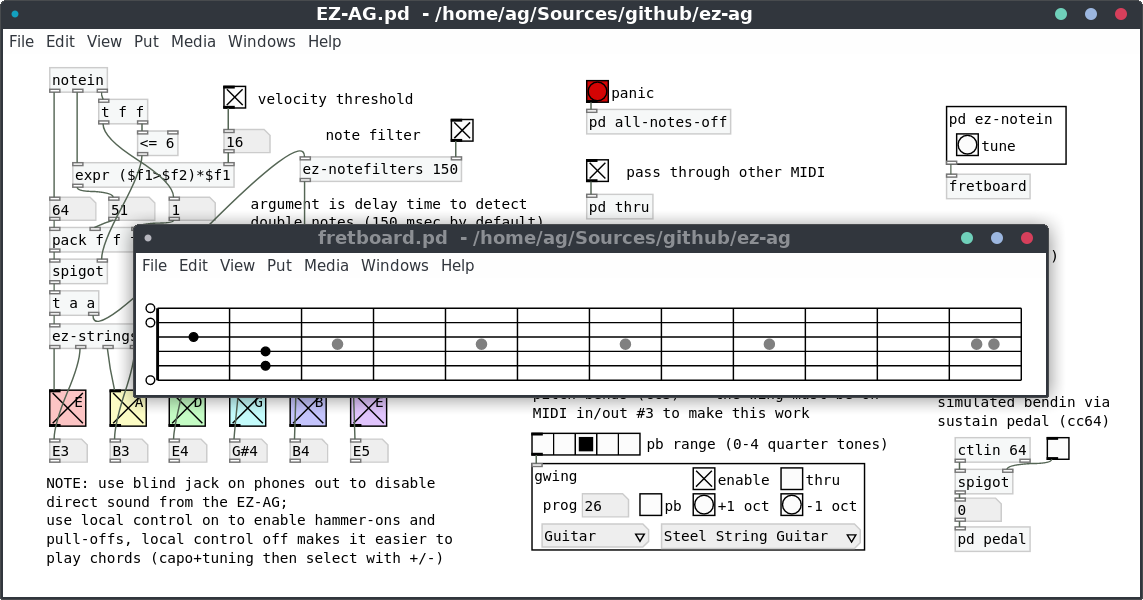
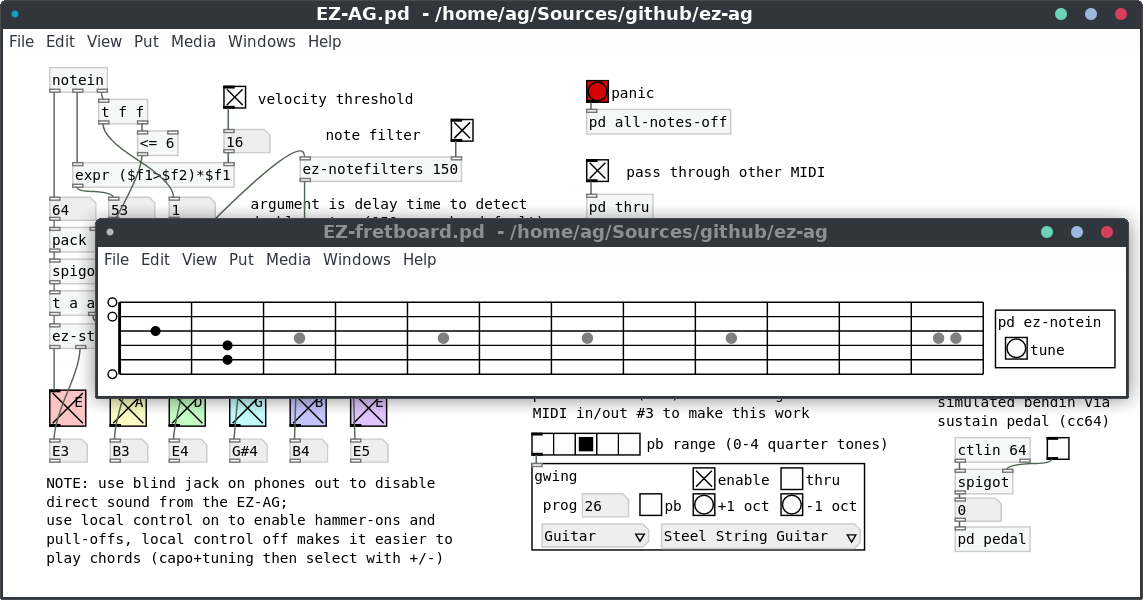
Update documentation

Changed region(s): [[0.0612, 0.33, 1.0, 0.69], [0.8268, 0.15, 0.9186, 0.33]]

diff --git a/README.md b/README.md
@@ -151,23 +151,7 @@ With those preparations all done and the EZ-AG turned on, just load the patch
 and start playing. You should see the strings and notes being played in the
 GUI, and hear the output from the patch through your MIDI synthesizer.
 
-Clicking on the fretboard subpatch in the right upper corner of the patch
-opens a graphical display of the 12 frets of the EZ-AG showing the notes that
-are currently playing in the style of a horizontal fretboard diagram. As
-usual, open and damped strings are indicated with "o" and "x" symbols to the
-left of the "nut" and finger positions on the fretboard using bullet points.
-
-Note that the fretboard display has no way of knowing the actual tuning of the
-EZ-AG, so it assumes a standard guitar tuning (E3-A3-D4-G4-B4-E5) by default.
-If you have configured the EZ-AG to use a different tuning (such as, e.g.,
-D-drop or 1 octave up or down) then some notes may fall below or above the
-displayed range and will be shown as grey "shadow" notes on the "nut" or the
-"bridge" in the fretboard diagram, respectively. In this case you can
-recalibrate the display so that it matches the EZ-AG's tuning. To these ends,
-pluck each open string (at least) once and then push the "tune" button above
-the fretboard subpatch. The display will then be adjusted accordingly.
-
-There are various other settings in the patch you can fiddle with. First and
+There are various settings in the patch you can fiddle with. First and
 foremost, there are two toggles for the velocity threshold and the note
 filtering, which should normally be enabled by default. You can turn these off
 to get the MIDI note data exactly as the EZ-AG sends it. Normally, you will
@@ -209,6 +193,26 @@ this can be used to emulate pitch bends if you turn on the corresponding
 toggle in the patch. This is a rather crude emulation (it quickly ramps up one
 semitone when pressing the pedal, and goes back to nominal pitch when
 releasing it); better control is provided through the Guitar Wing, see below.
+
+## Fretboard Display
+
+This is available as an accompanying patch EZ-fretboard.pd which needs to be
+opened separately in the same Pd instance as the main patch. It shows a
+graphical display of the 12 frets of the EZ-AG in the style of a horizontal
+fretboard diagram, indicating open and damped strings with "o" and "x" symbols
+to the left of the "nut" and finger positions on the fretboard using bullet
+points.
+
+Note that the fretboard display has no way of knowing the actual tuning of the
+EZ-AG, so it assumes a standard guitar tuning (E3-A3-D4-G4-B4-E5) by default.
+If you have configured the EZ-AG to use a different tuning (such as, e.g.,
+D-drop or 1 octave up or down) then some notes may fall below or above the
+displayed range and will be shown as grey "shadow" notes on the "nut" or the
+"bridge" in the fretboard diagram, respectively. In this case you can
+recalibrate the display so that it matches the EZ-AG's tuning. To these ends,
+pluck each open string (at least) once and then push the "tune" button on the
+right. Any notes played after pushing the "tune" button should now be
+displayed in the correct fret position corresponding to the new tuning.
 
 ## Guitar Wing Controls
 
